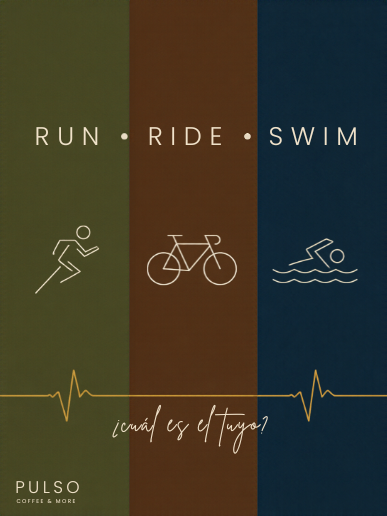
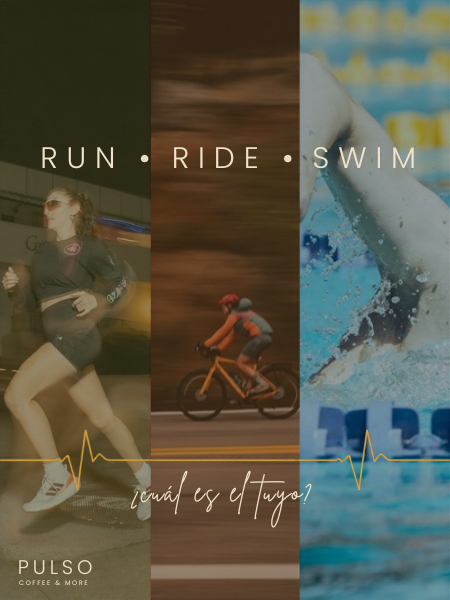
Post 2 con personas reales por pilar (fotos libres Unsplash)
Claude-Session: https://claude.ai/code/session_018YiCnAkaUvPiyK7mYCD75z

diff --git a/knowledge/conexiones.md b/knowledge/conexiones.md
@@ -17,7 +17,7 @@ Fuente: configuración hecha por la fundadora el 25 de octubre de 2026, verifica
 | Post | Diseño | Id |
 | --- | --- | --- |
 | 1 · Hola, somos PULSO | https://canva.link/x254ajw4awat0bg | DAHY-z6winI |
-| 2 · RUN • RIDE • SWIM | https://canva.link/fz05yoctupq3z7t | DAHY-0aG-WE |
+| 2 · RUN • RIDE • SWIM | https://www.canva.com/d/oBTfNv2YJQKYwes (v2, fotos reales Unsplash; v1: https://canva.link/fz05yoctupq3z7t) | DAHZKyn9PY0 |
 | 3 · Detrás de PULSO | https://canva.link/qv4psihcr5jsc3n | DAHY-1Rdlcs |
 | 4 · Tu matcha sabe amargo | https://canva.link/2dcq8zfijt9zzy8 | DAHY-8FwRt0 |
 | 5 · Cold brew en casa | https://canva.link/0f3obzp9902tl16 | DAHY-6qjApk |
@@ -76,3 +76,6 @@ Horas: según Metricool (mejor hora Instagram, Bogotá, consultado 27 oct 2026),
 | Por confirmar | | 9 Lista de espera (cuando exista el formulario) |
 
 Al aprobar, la revisión programada usa esa fecha. Si ya pasó, toma la siguiente franja libre y actualiza el calendario.
+
+## Fotos libres en Canva (27 oct 2026)
+`upload-asset-from-url` de Canva funciona con URLs públicas como images.unsplash.com, porque Canva las baja desde sus propios servidores. Así se pueden poner fotos reales de banco libre, con crédito, aunque esta sesión no llegue a esos dominios. Post 2 v2: Venti Views (correr), Anvesh Vatsavai (bici), Omar Abozeid (natación), con licencia Unsplash.
